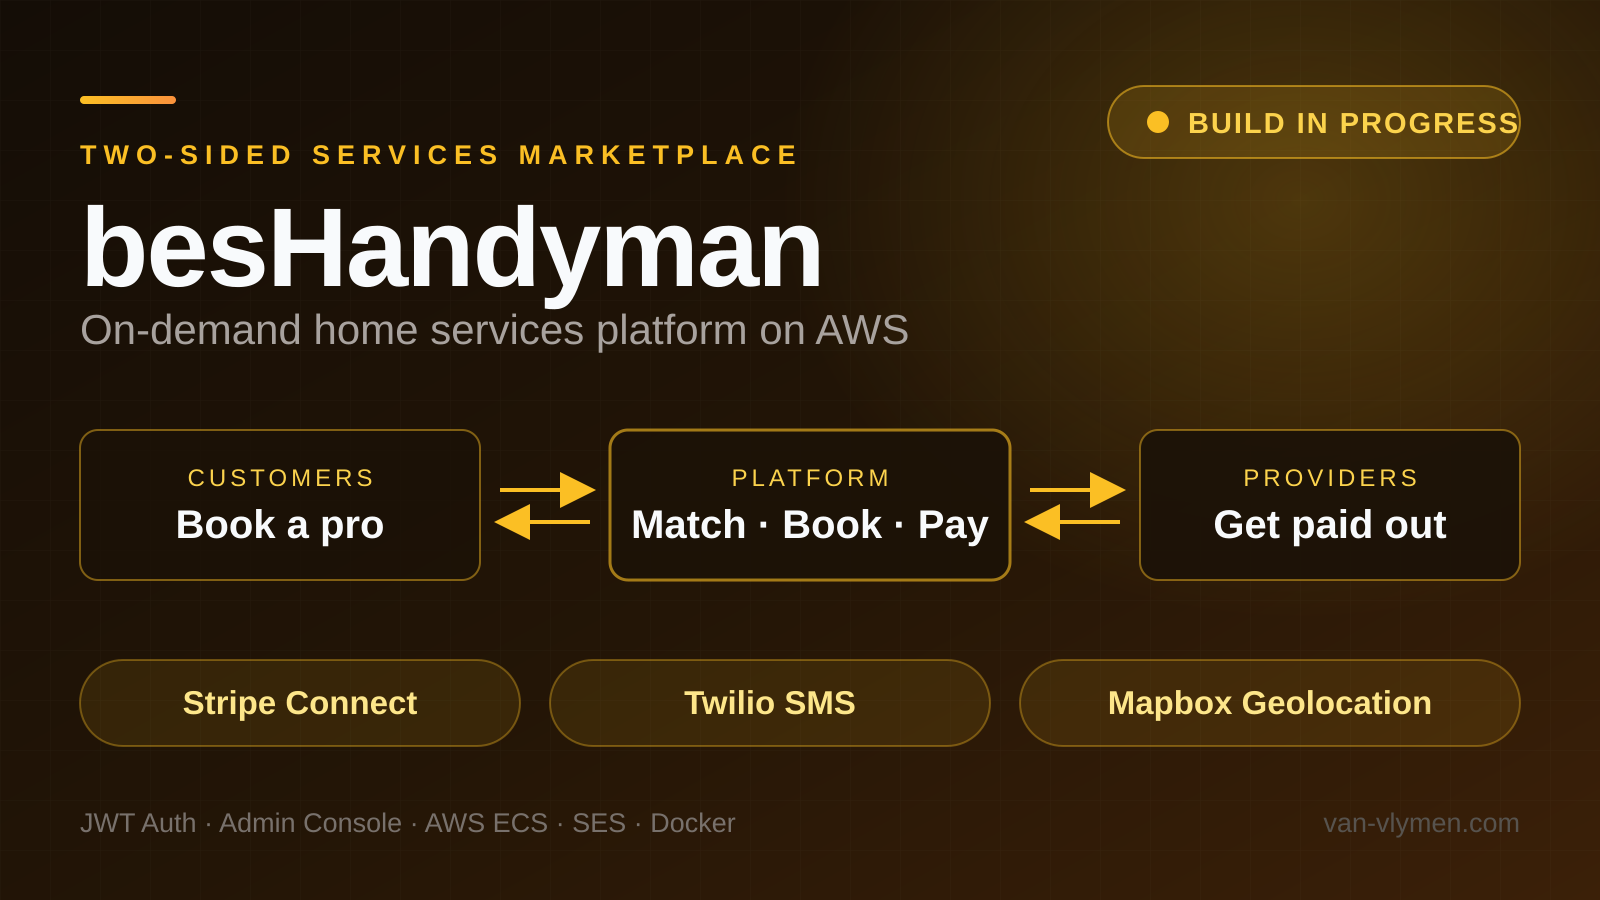
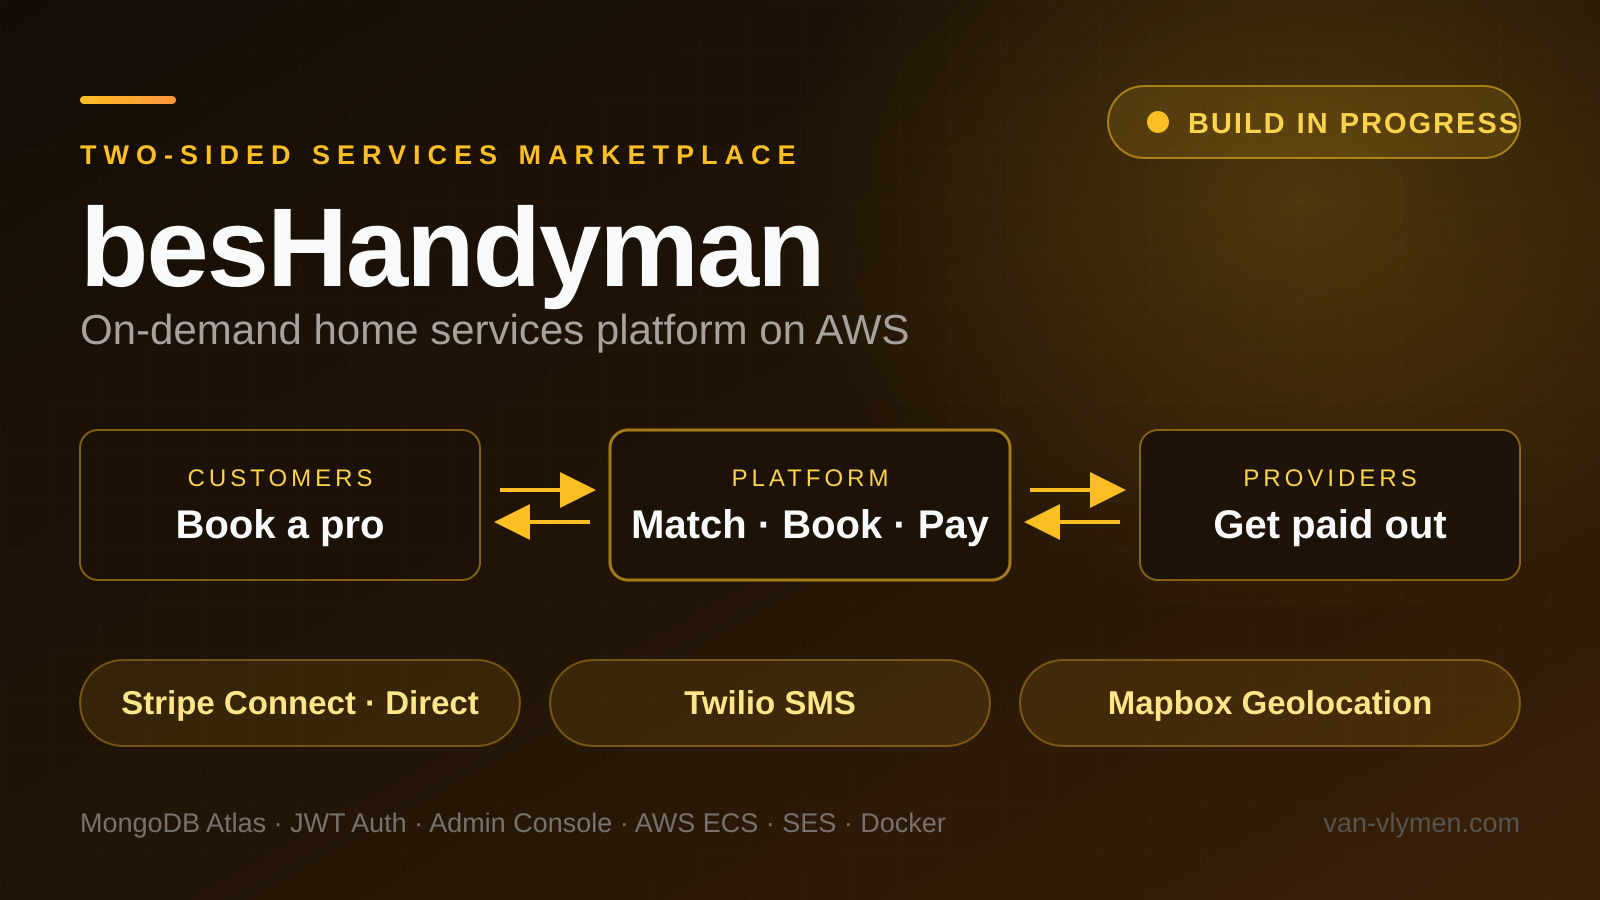
content: besHandyman stack details; remove MernEcommercePro page
besHandyman: adds MongoDB Atlas with the rationale for choosing it over
DynamoDB (document model fits a marketplace; keeps the data layer portable
across providers), and makes the Stripe Connect card specific — direct charges
per task on the provider's connected account with a ~20% application fee.

Deletes app/projects/2systemArch/MernEcommercePro, its sitemap entry, and the
entry in SystemArch.js that linked to it, so nothing points at a dead route.
Also unlists the now-empty 2systemArch index from the sitemap.

Changed region(s): [[0.0312, 0.9022, 0.5938, 0.9333], [0.0625, 0.7467, 0.3125, 0.8089]]

diff --git a/app/projects/besHandyman-services-marketplace/BesHandyman.js b/app/projects/besHandyman-services-marketplace/BesHandyman.js
@@ -7,6 +7,7 @@ const techStack = [
   'React',
   'Next.js',
   'Node.js',
+  'MongoDB Atlas',
   'Stripe Connect',
   'Twilio',
   'Mapbox',
@@ -33,9 +34,10 @@ const contributions = [
     title: 'Stripe Connect Payments & Payouts',
     body: (
       <>
-        Integrated <strong>Stripe Connect</strong> to handle marketplace payments: collecting from
-        customers, splitting the platform fee, and paying out to provider accounts. Connect is what
-        makes routing money to third parties possible without holding funds directly.
+        Integrated <strong>Stripe Connect</strong> using <strong>direct charges</strong> — each job
+        is charged on the provider&apos;s own connected account, with a ~20% application fee routed
+        to the platform to fund the service. Charging per task on the connected account keeps the
+        provider as merchant of record and avoids the platform holding funds.
       </>
     ),
   },
@@ -76,6 +78,18 @@ const contributions = [
       <>
         Built an administrative interface for managing users, providers, and bookings — the
         operational surface a marketplace needs to handle disputes, verification, and oversight.
+      </>
+    ),
+  },
+  {
+    icon: '🍃',
+    title: 'MongoDB Atlas — a Deliberate Choice',
+    body: (
+      <>
+        Chose <strong>MongoDB Atlas</strong> over DynamoDB on purpose. A marketplace fits a document
+        model well, and Atlas keeps the data layer portable across providers rather than coupling
+        it to a single cloud&apos;s proprietary API — a tradeoff worth making when the application
+        tier already runs on AWS.
       </>
     ),
   },

diff --git a/app/components/6Projects.js b/app/components/6Projects.js
@@ -59,7 +59,7 @@ const projects = [
   {
     id: 2,
     title: "besHandyman — Services Marketplace",
-    description: "Sole technical architect of a TaskRabbit-style on-demand home services marketplace. Two-sided platform with Stripe Connect payments and provider payouts, Mapbox geolocation matching, Twilio SMS, JWT role-based auth, an admin console, and AWS ECS/SES infrastructure.",
+    description: "Sole technical architect of a TaskRabbit-style on-demand home services marketplace. Two-sided platform with Stripe Connect direct charges and a 20% platform fee, MongoDB Atlas, Mapbox geolocation matching, Twilio SMS, JWT role-based auth, an admin console, and AWS ECS/SES infrastructure.",
     image: "/images/beshandyman.png",
     url: "/projects/besHandyman-services-marketplace",
     status: "Build in progress",
@@ -67,6 +67,7 @@ const projects = [
       { name: "Marketplace · Lead Architect", color: "amber" },
       { name: "Stripe Connect", color: "indigo" },
       { name: "Twilio/Mapbox", color: "purple" },
+      { name: "MongoDB Atlas", color: "green" },
       { name: "JWT/Admin", color: "slate" },
       { name: "AWS ECS/SES", color: "orange" },
       { name: "Docker", color: "cyan" }

diff --git a/app/sitemap.js b/app/sitemap.js
@@ -11,8 +11,6 @@ const routes = [
   { path: '/projects/1frontendMastery/AstroDash', priority: 0.6 },
   { path: '/projects/1frontendMastery/Paws', priority: 0.6 },
   { path: '/projects/1frontendMastery/TicTacToe', priority: 0.6 },
-  { path: '/projects/2systemArch', priority: 0.8 },
-  { path: '/projects/2systemArch/MernEcommercePro', priority: 0.6 },
 ]
 
 export default function sitemap() {

diff --git a/app/projects/2systemArch/SystemArch.js b/app/projects/2systemArch/SystemArch.js
@@ -5,12 +5,6 @@ import Link from 'next/link'
 
 // --- JSON DATA SOURCE ---
 const PROJECT_DATA = [
-  {
-    id: 'MernEcommercePro',
-    path: '/projects/2systemArch/MernEcommercePro',
-    title: 'MERN E-Commerce Pro',
-    buttonLabel: 'View MERN E-Commerce Pro',
-  },
   // {
   //   id: 'tictactoe',
   //   title: 'Minimax AI Tic-Tac-Toe',
